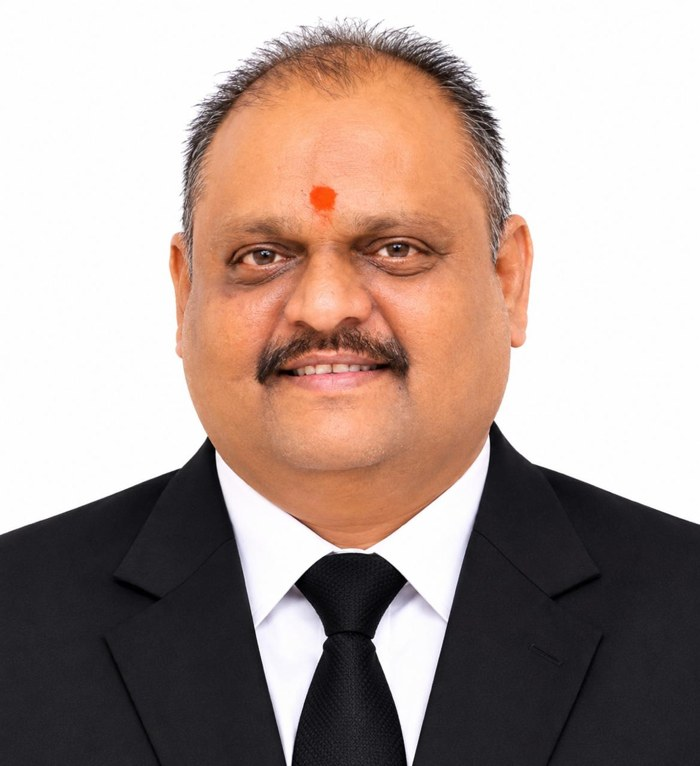
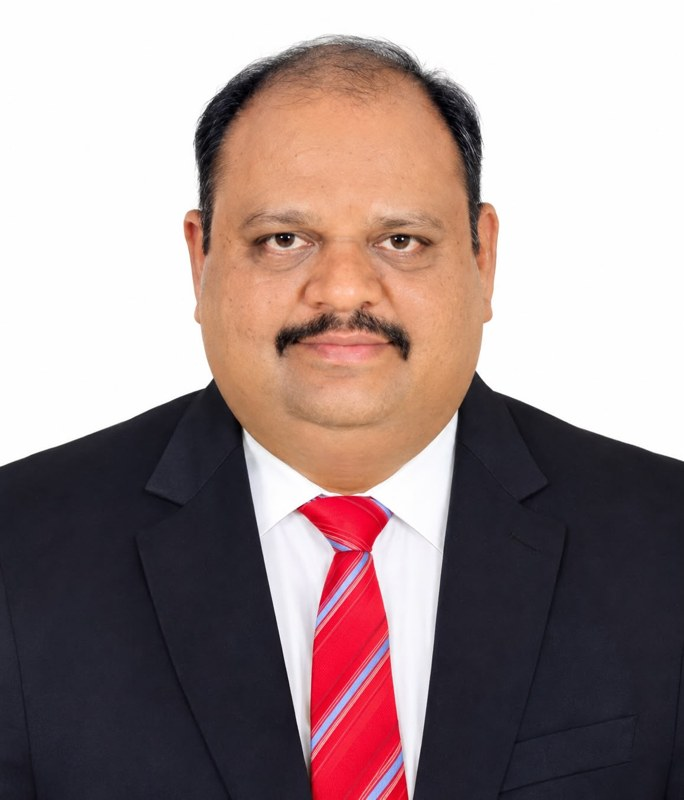
Update Bharat Simpy portrait

diff --git a/index.html b/index.html
@@ -324,7 +324,7 @@ footer a:hover{color:var(--gold)}
     <p class="lead">Expertise across legal matters, land and property, finance, precious metals and international export management.</p>
     <div class="people">
       <article class="person">
-        <img class="photo" src="images/bharat-simpy.jpg?v=3" alt="Mr. Bharat Simpy, Founder" width="700" height="800" loading="eager" fetchpriority="high">
+        <img class="photo" src="images/bharat-simpy.jpg?v=4" alt="Mr. Bharat Simpy, Founder" width="700" height="800" loading="eager" fetchpriority="high">
         <h3>Mr. Bharat Simpy</h3>
         <p class="role">Founder | Legal &amp; Business Advisory</p>
         <p>Expertise in:</p>
